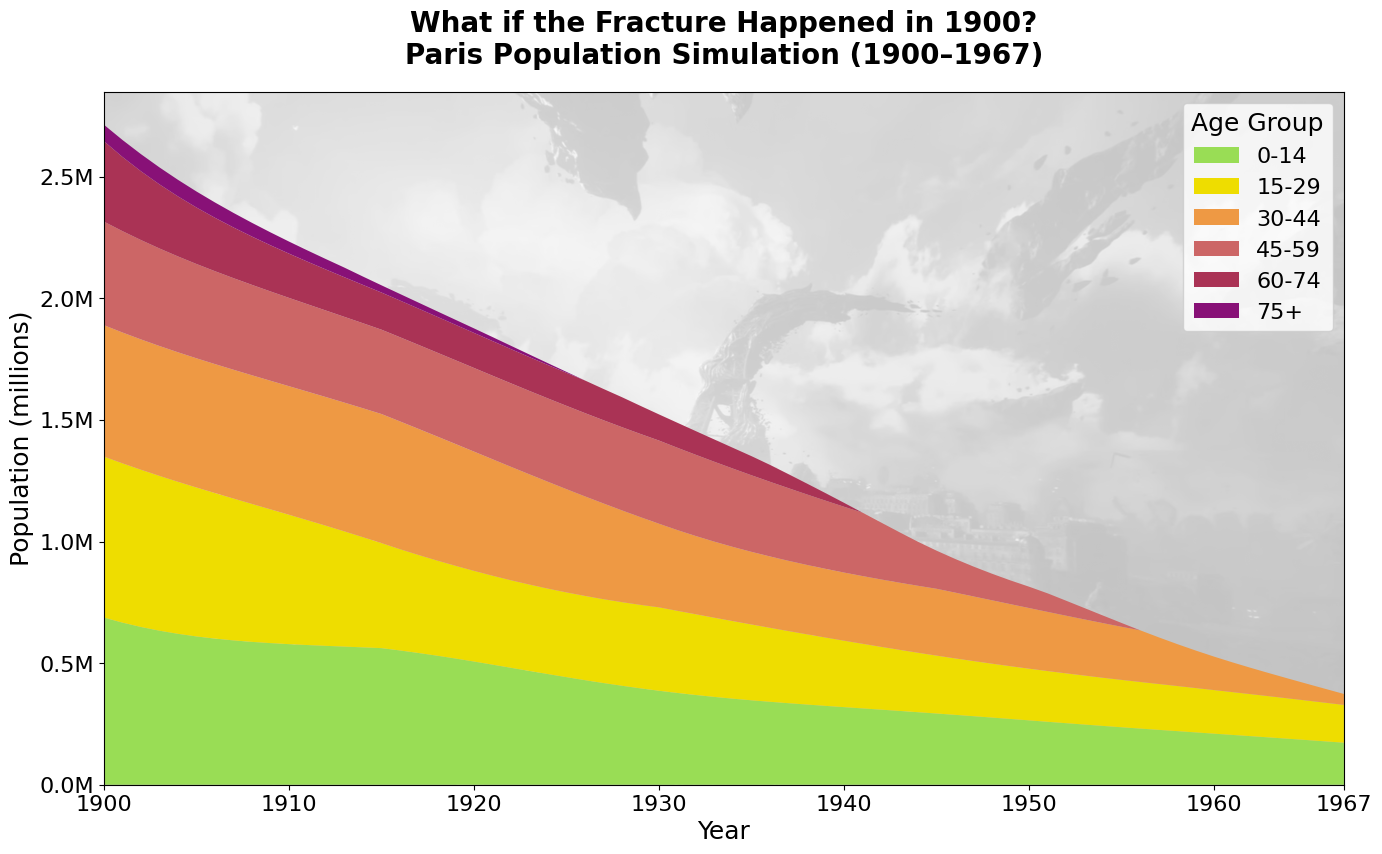
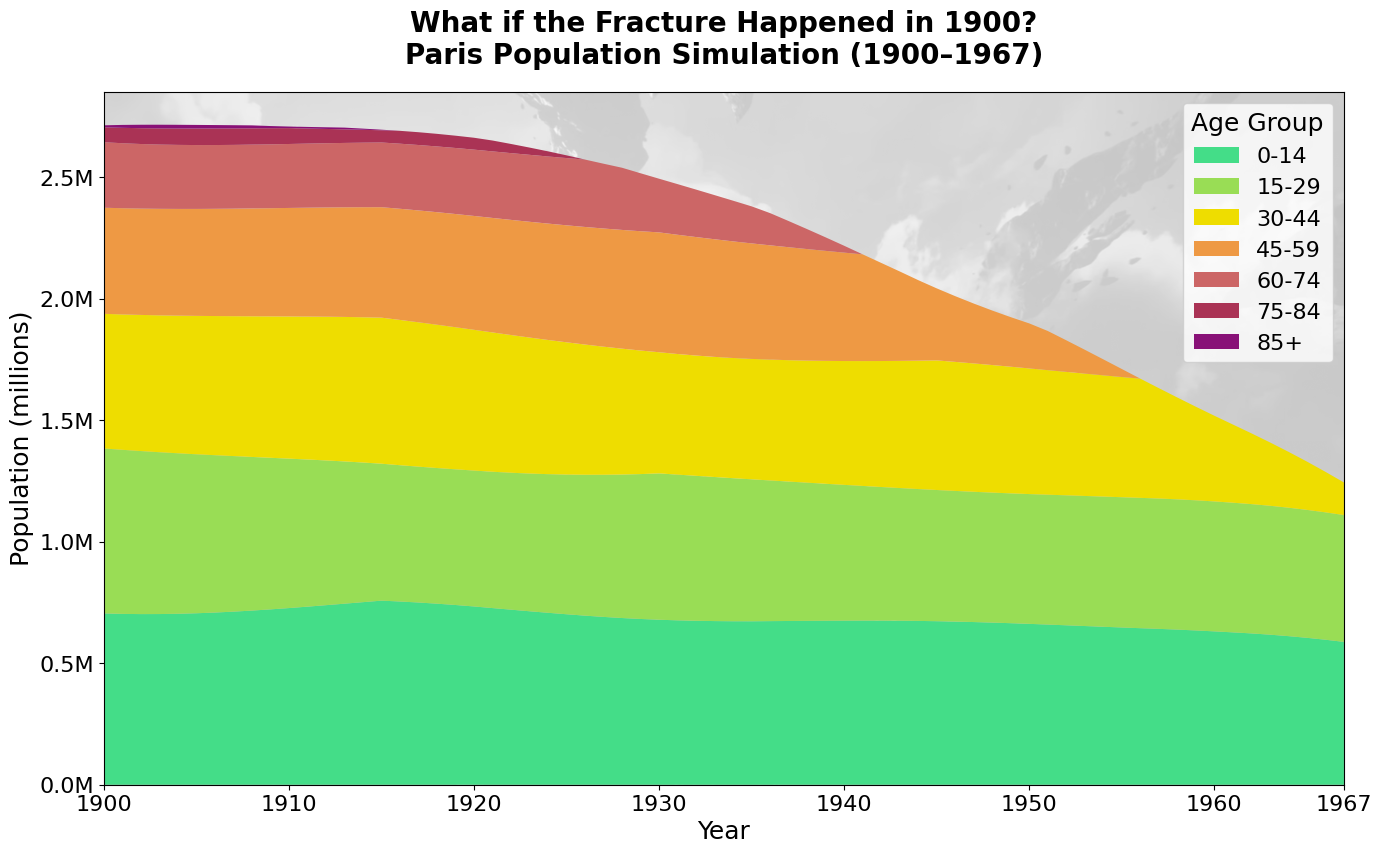
Fix mortality rates and TFR to 2.89

diff --git a/src/simulate.py b/src/simulate.py
@@ -17,46 +17,59 @@ def simulate_population(output_dir: Path):
         "30-44": range(30, 45),
         "45-59": range(45, 60),
         "60-74": range(60, 75),
-        "75+": range(75, 101),
+        "75-84": range(75, 85),
+        "85+": range(85, 101),
     }
 
     # Age-specific annual mortality rates (probability of dying each year)
     mortality_by_age = np.zeros(MAX_AGE + 1)
-    mortality_by_age[0:15] = 0.05  # 5% for ages 0–14
-    mortality_by_age[15:30] = 0.01  # 1% for ages 15–29
-    mortality_by_age[30:45] = 0.02  # 2% for ages 30–44
-    mortality_by_age[45:60] = 0.04  # 4% for ages 45–59
-    mortality_by_age[60:75] = 0.10  # 10% for ages 60–74
-    mortality_by_age[75:] = 0.20  # 20% for ages 75+
 
-    # Age-specific annual fertility rates for ages 15–44
-    # Based on TFR of 2.8 children per woman (1901 data), distributed across age bands
+    mortality_by_age[0:15] = 0.02209
+    mortality_by_age[15:30] = 0.006764
+    mortality_by_age[30:45] = 0.009585
+    mortality_by_age[45:60] = 0.017221
+    mortality_by_age[60:75] = 0.051096
+    mortality_by_age[75:] = 0.159804
+
+    TFR = 2.89
     fertility_by_age = np.zeros(MAX_AGE + 1)
-    fertility_by_age[15:20] = 0.056  # 10% of births over 5 years
-    fertility_by_age[20:25] = 0.14  # 25% over 5 years
-    fertility_by_age[25:30] = 0.168  # 30% over 5 years
-    fertility_by_age[30:35] = 0.112  # 20% over 5 years
-    fertility_by_age[35:40] = 0.056  # 10% over 5 years
-    fertility_by_age[40:45] = 0.028  # 5% over 5 years
-    fertility_by_age *= 0.5  # Assuming 50% of the population is female
+    band_fractions = {
+        (15, 20): 0.05,
+        (20, 25): 0.26,
+        (25, 30): 0.29,
+        (30, 35): 0.20,
+        (35, 40): 0.13,
+        (40, 45): 0.06,
+    }
+    for (start, end), frac in band_fractions.items():
+        fertility_by_age[start:end] = frac * TFR / (end - start)
 
-    # Initial population per bracket based on 1901 census proportions
     real_age_bracket_population = {
-        "0-14": INITIAL_TOTAL_POPULATION * 0.2533,
-        "15-29": INITIAL_TOTAL_POPULATION * 0.2439,
-        "30-44": INITIAL_TOTAL_POPULATION * 0.1991,
-        "45-59": INITIAL_TOTAL_POPULATION * 0.1569,
-        "60-74": INITIAL_TOTAL_POPULATION * 0.1219,
-        "75+": INITIAL_TOTAL_POPULATION * 0.0249,
+        "0-14": 0.259785505858112,
+        "15-29": 0.25013423134903,
+        "30-44": 0.204211636324971,
+        "45-59": 0.160892327037594,
+        "60-74": 0.0993535462142421,
+        "75-84": 0.0225770829827583,
+        "85+": 0.00304567023329202,
     }
 
     # Initialize population per individual age using uniform distribution within each bracket
-    population_by_age = pd.DataFrame(0, index=years, columns=range(MAX_AGE + 1))
+    population_by_age = pd.DataFrame(0.0, index=years, columns=range(MAX_AGE + 1))
     for label, total in real_age_bracket_population.items():
         ages = list(age_brackets[label])
-        per_age = total / len(ages)
-        for age in ages:
-            population_by_age.loc[1900, age] = per_age
+        if label == "85+":
+            # linearly decreasing from age 85 -> 100
+            # weight 1 at age 85, weight 0 at age 100
+            weights = np.linspace(1, 0, len(ages))
+            # normalize so they sum to 1, then multiply by total
+            per_age = total * (weights / weights.sum())
+        else:
+            # uniform split
+            per_age = np.full(len(ages), total / len(ages))
+        # assign into your dataframe
+        for age, pop_frac in zip(ages, per_age):
+            population_by_age.loc[1900, age] = pop_frac
 
     # Normalize the population to exactly match the target population
     population_by_age.loc[1900] *= (
@@ -72,11 +85,11 @@ def simulate_population(output_dir: Path):
         current *= 1 - mortality_by_age
 
         # Age the population
-        new_row = pd.Series(0, index=population_by_age.columns)
+        new_row = pd.Series(0.0, index=population_by_age.columns)
         new_row[1:] = current[:-1].values
 
         # Compute total births (from age-specific fertility rates)
-        births = np.sum(current * fertility_by_age)
+        births = np.sum(current * fertility_by_age * 0.5)
         new_row[0] = births
 
         # Apply Paintress effect: remove all individuals of the painted age or older
@@ -94,3 +107,12 @@ def simulate_population(output_dir: Path):
 
     # Export to CSV
     df_pop.to_csv(output_dir / "population.csv")
+
+    # Print total population at the end of the simulation
+    total_population = df_pop.sum(axis=1)
+    print(f"Total population in {END_YEAR}: {total_population.iloc[-1]:,.0f}")
+
+    # Print the population by age bracket for the last year, in percentage
+    df_pop.iloc[-1] = df_pop.iloc[-1] / df_pop.iloc[-1].sum()
+    print("Population by age bracket in percentage for the last year:")
+    print(df_pop.iloc[-1])

diff --git a/README.md b/README.md
@@ -9,6 +9,8 @@ The simulation offers a glimpse into how the city's demographics might have evol
 
 ## Methodology & Sources
 
-- **Initial population** based on the 1901 French census and scaled to match the 1901 Paris population (~2.7 million). [Source](https://www.bnsp.insee.fr/ark:/12148/bpt6k5503095m/f56.item.zoom).
-- **Fertility and mortality rates** by age are based on historical French data from the early 20th century. [Source](https://fr.wikipedia.org/wiki/Natalit%C3%A9_en_France).
+- **Initial population** based on the 1901 French census and scaled to match the 1901 Paris population (~2.7 million).
+- **Fertility and mortality rates** by age are based on historical French data from 1901, using a TFR of 2.89
 - **The Paintress effect** removes one age group per year, starting from age 100 in 1900 down to 33 in 1967.
+
+Source: https://www.bnsp.insee.fr/ark:/12148/bpt6k5503095m/f56.item.zoom
